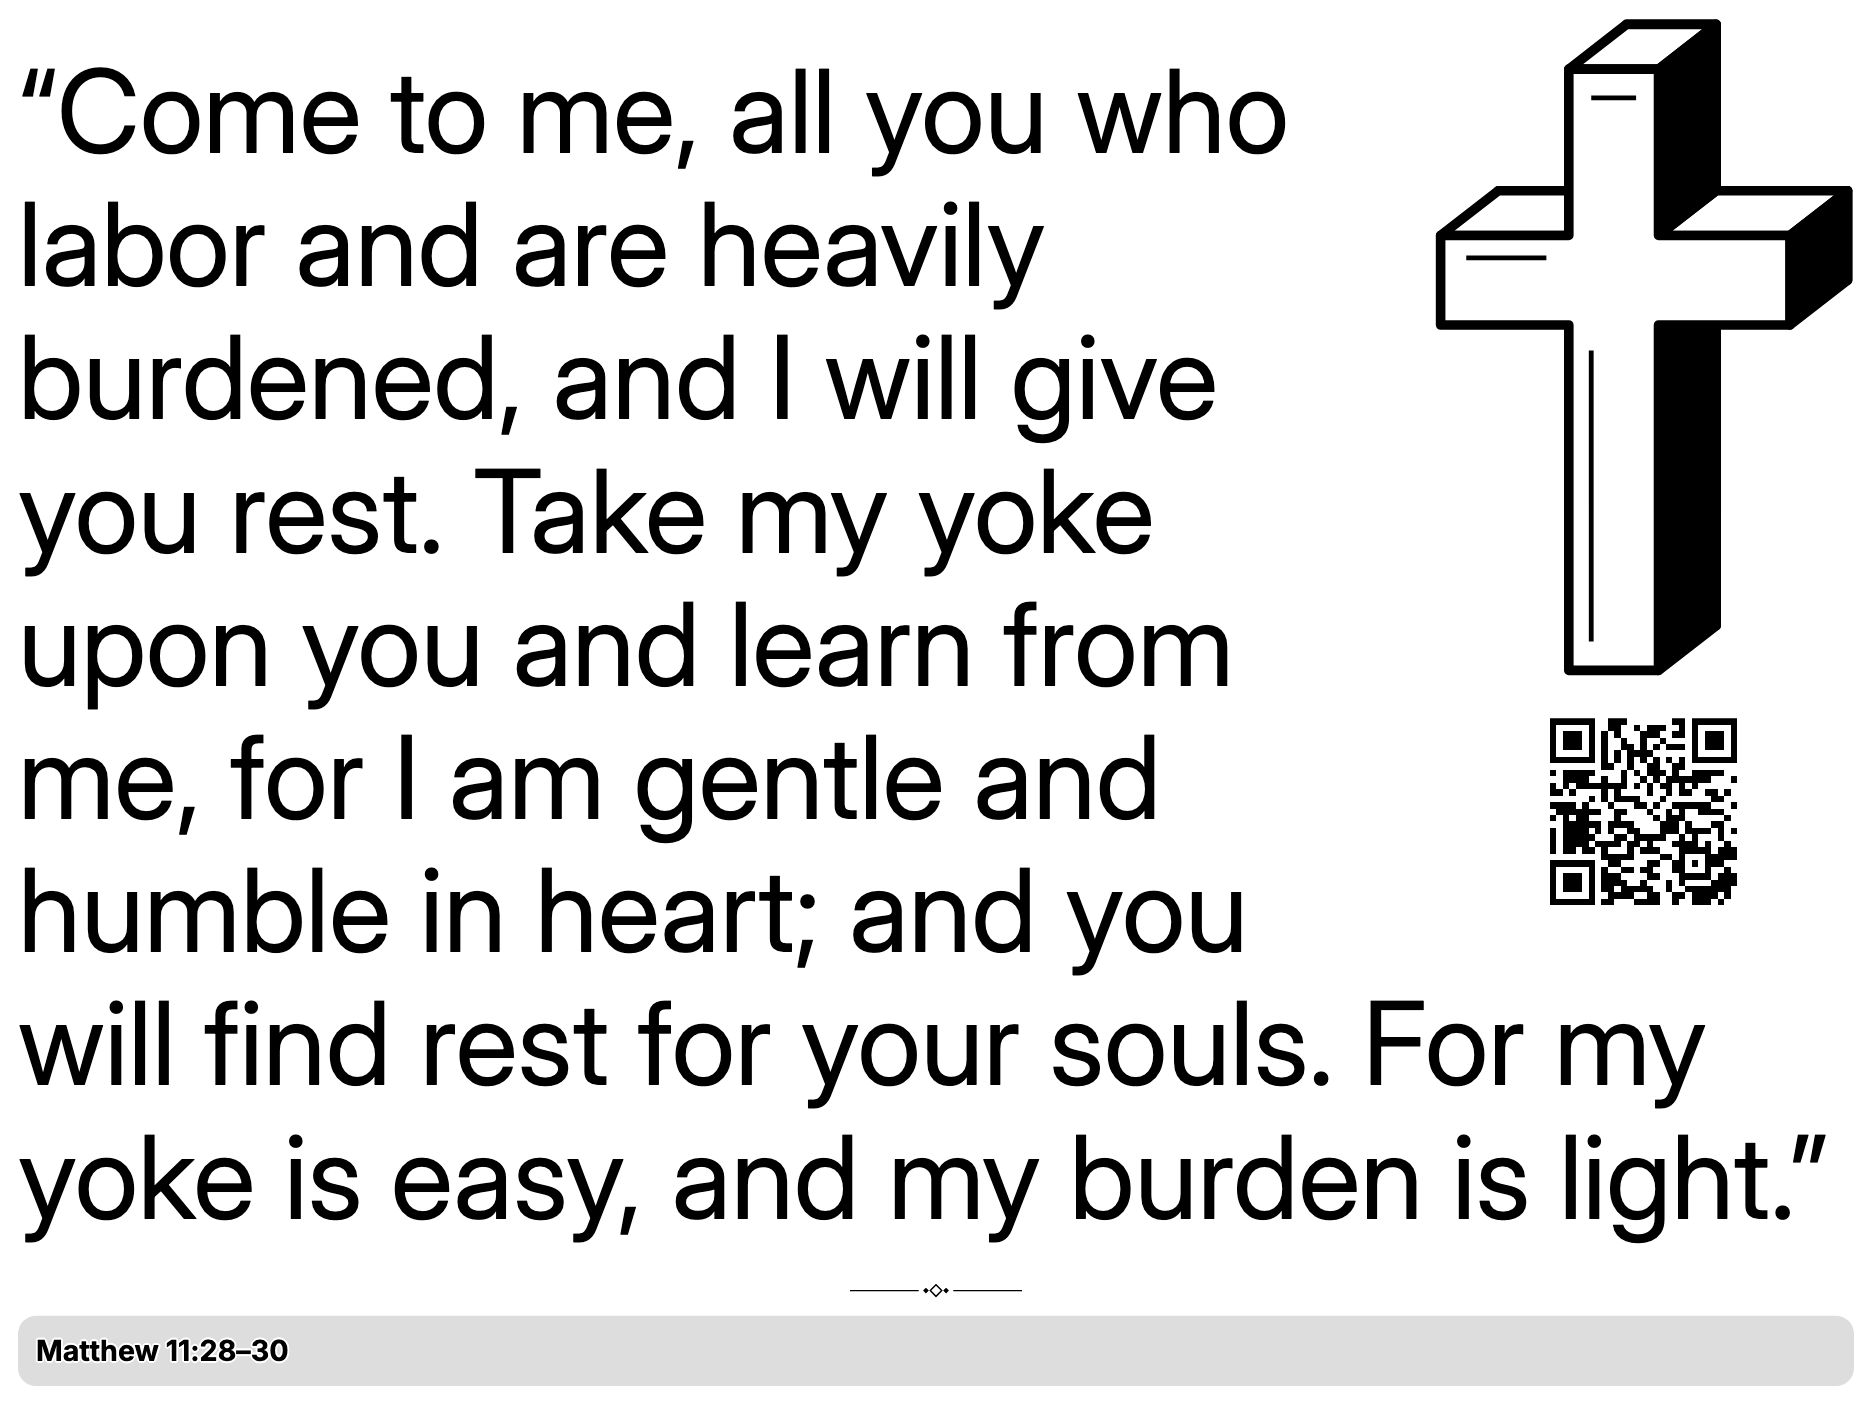
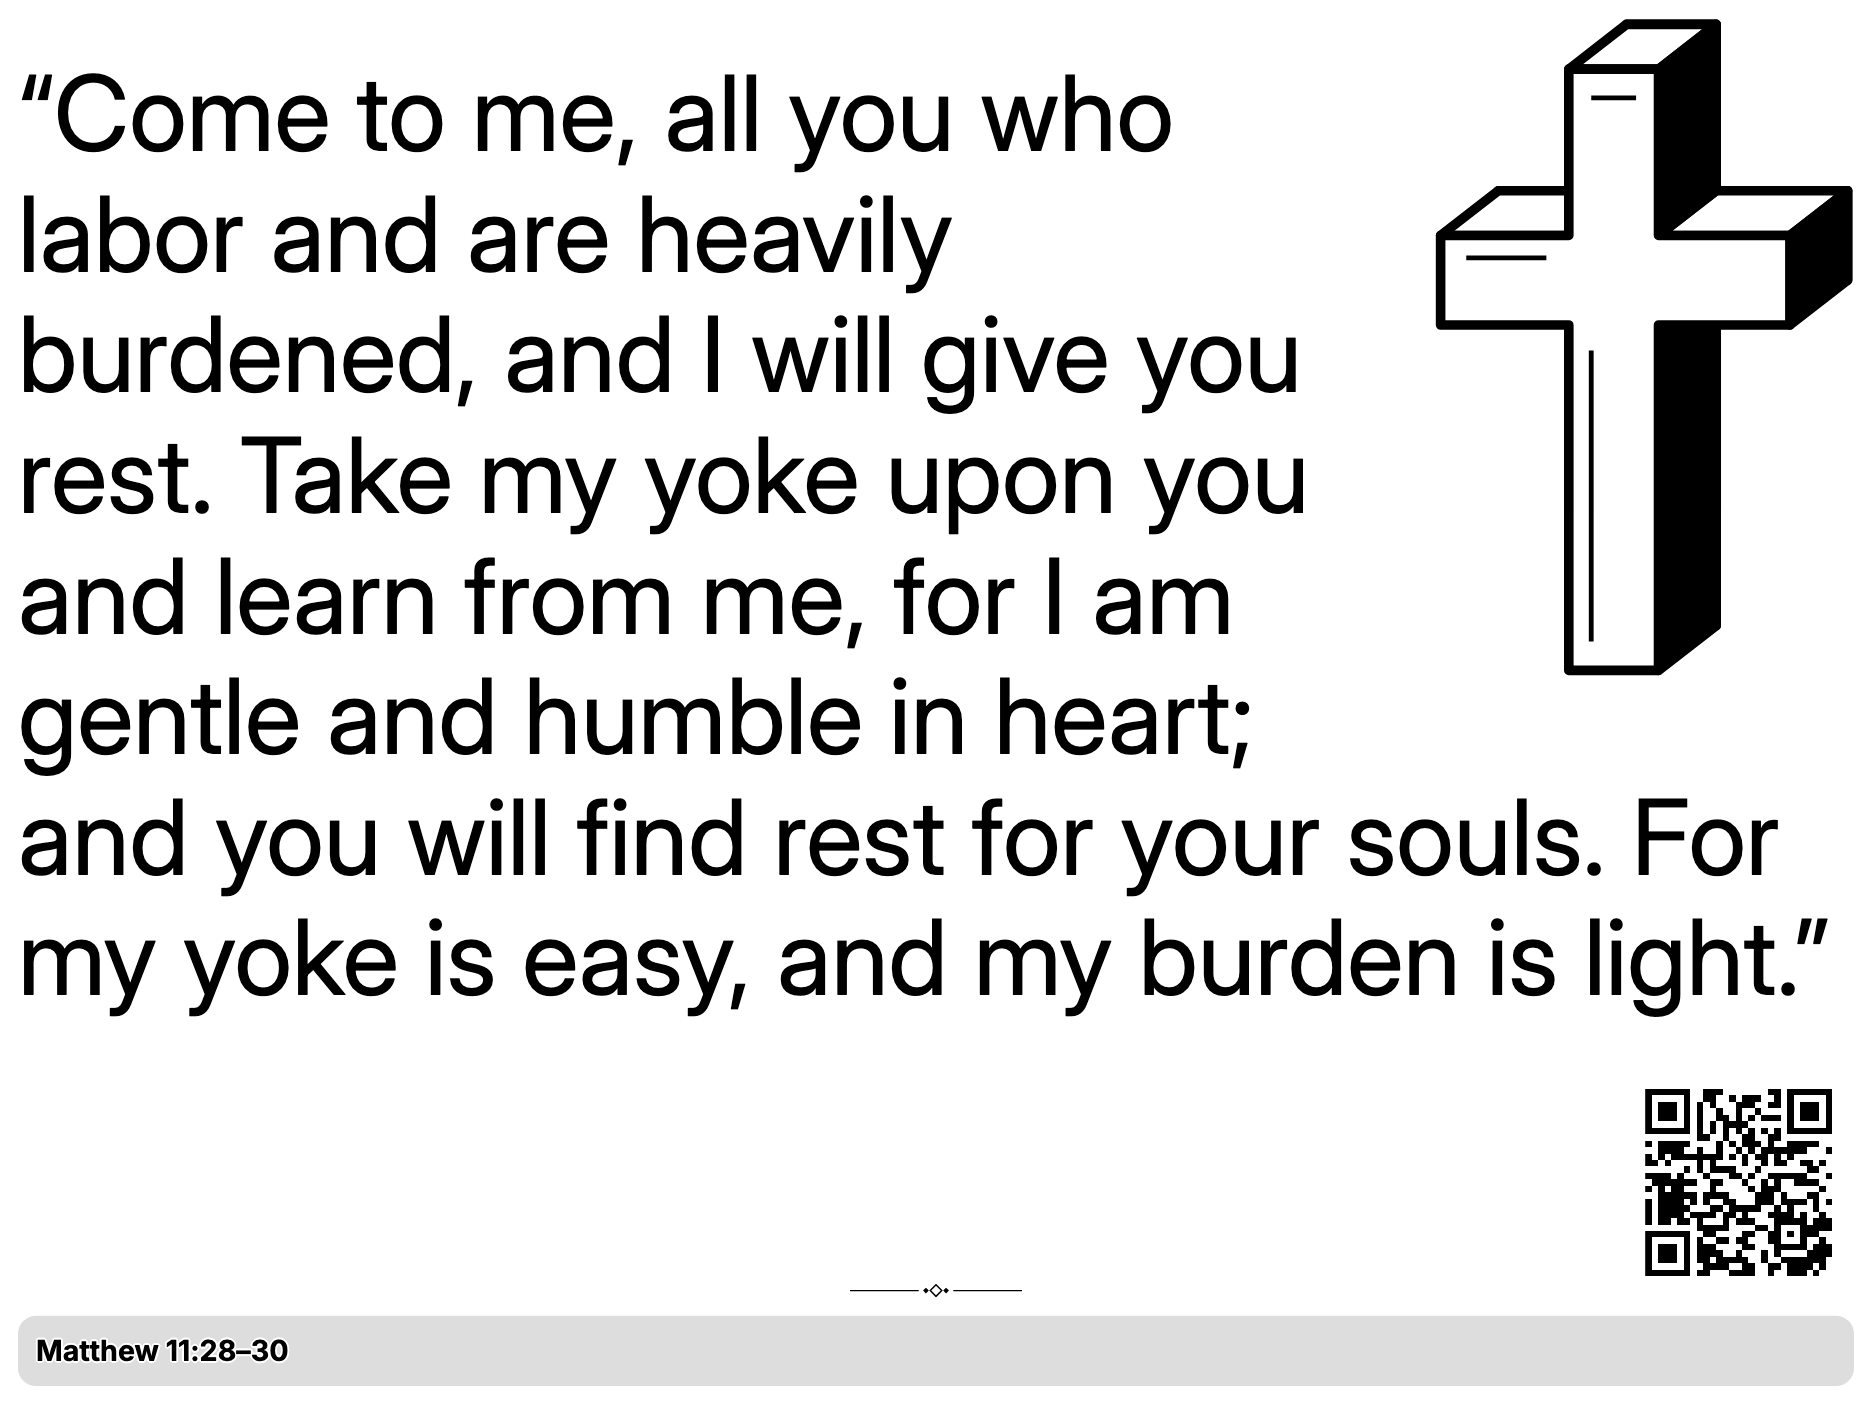
Simplify plugin settings and restore the corner QR in full view
The settings form uses plain labels: Language with one option per
language, single-word themes with no "All themes" entry (an empty
selection mixes every theme, and saved "all" values still work), "New
passage" with Daily, Twice a day, Every 6 hours and Hourly, and a
"Chapter QR code" toggle ahead of the About block. The local preview
matches.

The full view puts the QR code back in the bottom-right corner above
the reference bar, and the README and listing images are refreshed.

Changed region(s): [[0.0, 0.0306, 0.9915, 0.9188]]

diff --git a/packages/plugin-tools/src/preview.html b/packages/plugin-tools/src/preview.html
@@ -29,10 +29,10 @@
   <header><div><h1>Daily Bread</h1><p>Daily Bible verses. One passage to carry into your day.</p></div><a href="/review">Review all screens</a><a href="/download">Download TRMNL recipe</a></header>
   <main>
     <aside aria-label="Preview settings">
-      <div><label for="language">Language / Langue / Idioma</label><select id="language"></select></div>
-      <div><label id="theme-label">Themes</label><details class="theme-picker"><summary id="theme-summary" aria-labelledby="theme-label theme-summary">All themes</summary><fieldset id="theme"><legend>Choose one or more</legend></fieldset></details></div>
-      <div><label for="rotation">Change passage</label><select id="rotation"></select></div>
-      <div><label for="context-qr">Show chapter QR code</label><select id="context-qr"><option value="true">Show</option><option value="false">Hide</option></select></div>
+      <div><label for="language">Language</label><select id="language"></select></div>
+      <div><label id="theme-label">Themes</label><details class="theme-picker"><summary id="theme-summary" aria-labelledby="theme-label theme-summary">All themes</summary><fieldset id="theme"><legend>Leave empty for every theme</legend></fieldset></details></div>
+      <div><label for="rotation">New passage</label><select id="rotation"></select></div>
+      <div><label for="context-qr">Chapter QR code</label><select id="context-qr"><option value="true">Show</option><option value="false">Hide</option></select></div>
       <div><label for="model">Device</label><select id="model"></select></div>
       <div><label for="orientation">Orientation</label><select id="orientation"><option value="landscape">Landscape</option><option value="portrait">Portrait</option></select></div>
       <div><label for="view">Screen layout</label><select id="view"><option value="full">Full</option><option value="half_horizontal">Half horizontal</option><option value="half_vertical">Half vertical</option><option value="quadrant">Quadrant</option></select></div>
@@ -93,7 +93,7 @@
         byId('screen').style.width = width+'px'; byId('screen').style.height = height+'px';
         fitPreview();
         byId('screen').src = '/render?' + query + '&view=' + view;
-        const chosen = selectedThemes().filter(theme => theme !== 'all');
+        const chosen = selectedThemes();
         const collection = plugin.data.translations?.[byId('language').value] ?? plugin.data;
         const pool = chosen.length ? collection.verses.filter(v => chosen.includes(v.theme)) : collection.verses;
         const slot = Math.floor((Number(query.get('timestamp')) + Number(query.get('offset'))) / intervals[byId('rotation').value]);
@@ -106,10 +106,9 @@
         byId('translation').textContent = collection.translation.name + ' · ' + ({en:'English',fr:'Français',es:'Español'}[collection.translation.language] ?? collection.translation.language);
         const language = byId('language').value;
         const allLabel = {en:'All themes',fr:'Tous les thèmes',es:'Todos los temas'}[language] ?? 'All themes';
-        for (const input of byId('theme').querySelectorAll('input')) input.nextElementSibling.textContent = input.value === 'all' ? allLabel : collection.themes.find(t => t.id === input.value)?.name;
         byId('theme-summary').textContent = chosen.length === 0 || chosen.length === collection.themes.length ? allLabel : chosen.length === 1 ? collection.themes.find(t => t.id === chosen[0]).name : `${chosen.length} ${{en:'themes',fr:'thèmes',es:'temas'}[language] ?? 'themes'}`;
         byId('theme-label').textContent = {en:'Themes',fr:'Thèmes',es:'Temas'}[language] ?? 'Themes';
-        byId('theme').querySelector('legend').textContent = {en:'Choose one or more',fr:'Choisissez un ou plusieurs thèmes',es:'Elige uno o varios temas'}[language] ?? 'Choose one or more';
+        byId('theme').querySelector('legend').textContent = {en:'Leave empty for every theme',fr:'Laissez vide pour tous les thèmes',es:'Déjalo vacío para todos los temas'}[language] ?? 'Leave empty for every theme';
         for (const option of byId('rotation').options) if (collection.labels?.[option.value]) option.textContent = collection.labels[option.value]; else option.textContent = plugin.fields.find(f => f.keyname === 'rotation').options.find(entry => entry.endsWith(': '+option.value)).split(': ')[0];
         byId('summary').textContent = pool.length + ' curated passages in this rotation. Every passage appears once before the cycle repeats.';
         byId('links').replaceChildren(...Object.keys(fractions).map(v => { const a = document.createElement('a'); a.href='/render?'+query+'&view='+v; a.textContent=v.replaceAll('_',' '); a.target='_blank'; return a; }));
@@ -130,19 +129,11 @@
       for (const entry of themeField.options) {
         const [text, value] = entry.split(': ');
         const label = document.createElement('label');
-        const input = document.createElement('input'); input.type = 'checkbox'; input.value = value; input.checked = value === 'all';
+        const input = document.createElement('input'); input.type = 'checkbox'; input.value = value; input.checked = false;
         const span = document.createElement('span'); span.textContent = text;
         label.append(input, span); byId('theme').append(label);
       }
-      byId('theme').addEventListener('change', event => {
-        const inputs = Array.from(byId('theme').querySelectorAll('input'));
-        if (event.target.checked) {
-          if (event.target.value === 'all') inputs.forEach(input => { if (input.value !== 'all') input.checked = false; });
-          else inputs.find(input => input.value === 'all').checked = false;
-        }
-        if (!inputs.some(input => input.checked)) inputs.find(input => input.value === 'all').checked = true;
-        update();
-      });
+      byId('theme').addEventListener('change', update);
       byId('offset').value = plugin.offset / 3600;
       byId('time').value = new Date(Date.now() + plugin.offset * 1000).toISOString().slice(0,16);
       for (const name of ['language','rotation','context-qr','model','orientation','view','time','offset']) byId(name).addEventListener('change',update);

diff --git a/apps/bible-verses/test/languages.test.js b/apps/bible-verses/test/languages.test.js
@@ -104,7 +104,7 @@ test('a missing selected collection shows recovery text without silently display
 
 
 test('fresh and blank preferences use English, all themes, daily rotation and QR on in every layout', async () => {
-  assert.deepEqual(plugin.defaults, { language: 'en', theme: 'all', rotation: 'daily', show_context_qr: true });
+  assert.deepEqual(plugin.defaults, { language: 'en', rotation: 'daily', show_context_qr: true });
   const options = { timestamp: 1790848800, utcOffset: 0 };
   for (const view of views) {
     const initial = await renderView(plugin, view, options);

diff --git a/apps/bible-verses/README.md b/apps/bible-verses/README.md
@@ -11,10 +11,10 @@ Publication titles, descriptions, localized overview copy and search/share metad
 ## MVP
 
 - **108 passages**, with 12 in each of nine practical themes: Family & home, Relationships, Work & purpose, Money & generosity, Decisions & direction, Worry & rest, Hard times & loss, Joy & gratitude, and Faith & prayer.
-- **All themes** by default, interleaved so successive intervals move between themes. Users can choose one or several themes with [TRMNL’s native multi-select](https://help.trmnl.com/en/articles/10513740-custom-plugin-form-builder). Specific choices take priority over All themes; clearing the selection restores the mixed default.
+- **Every theme** by default, interleaved so successive intervals move between themes. Users can choose one or several themes with [TRMNL’s native multi-select](https://help.trmnl.com/en/articles/10513740-custom-plugin-form-builder); leaving it empty keeps the mix.
 - **One translation per language**: English (default) uses the updated, LORD edition of the [World English Bible](https://worldenglish.bible/) (`engwebp`); French uses [Louis Segond 1910](https://ebible.org/bible/details.php?id=fraLSG); Spanish uses [Reina Valera 1909](https://ebible.org/bible/details.php?id=spaRV1909). All three sources are public domain. Each language includes the same 108 curated selections, with localized references, themes and attribution.
 - **Daily** by default; every 12 hours, every 6 hours, or hourly are also available.
-- Full, half horizontal, half vertical, and quadrant layouts. Complete passage text and reference in every layout. The full view wraps Scripture around a larger dimensional cross at the top right. Wide half and quadrant views keep the cross at the top right; left/right halves center it above the verse, as do top/bottom halves in portrait. The cross remains visible with QR enabled or disabled. Text continues beneath the cross in wide halves and quadrants. Chapter QR codes sit above the full-width reference bar at the bottom right; centered-cross halves put the QR at the top right. Full views use a 128px QR footprint, centered halves use 80–96px, and wide halves/quadrants use 80px, all scaled by the framework. OG cross sizes are restrained, while TRMNL X uses larger artwork.
+- Full, half horizontal, half vertical, and quadrant layouts. Complete passage text and reference in every layout. The full view wraps Scripture around a larger dimensional cross at the top right. Wide half and quadrant views keep the cross at the top right; left/right halves center it above the verse, as do top/bottom halves in portrait. The cross remains visible with QR enabled or disabled. Text continues beneath the cross in wide halves and quadrants. In full views and portrait quadrants, the chapter QR code sits at the bottom right above the reference bar. Landscape wide halves and quadrants stack it under the cross so the text wraps around both; centered-cross halves put it at the top right. Full views use a 128px QR footprint, centered halves 80–96px, and wide halves and quadrants 64px with a smaller quiet zone, all scaled by the framework. OG cross sizes are restrained, while TRMNL X uses larger artwork.
 - No hosted backend, Bible API subscription, authentication, or API key.
 
 Passage text dynamically fits the measured reading area using [TRMNL Fit Value](https://trmnl.com/framework/docs/3.4/fit_value). The bottom bar shows only the reference, giving the complete passage more room; Scripture is never truncated. Two small, scoped CSS rules in shared.liquid enable the requested full, wide-half and quadrant cross wrap; other styling uses the framework.
@@ -24,7 +24,7 @@ Passage text dynamically fits the measured reading area using [TRMNL Fit Value](
 1. From the monorepo root, run `pnpm install` and `pnpm build`.
 2. Open **Plugins → Private Plugin** in TRMNL and choose **Import new**.
 3. Select `apps/bible-verses/dist/daily-bread.zip`.
-4. Choose **Language / Langue / Idioma**, **Themes**, **Change passage** and **Show chapter QR code** in the imported plugin's settings.
+4. Choose **Language**, **Themes**, **New passage** and **Chapter QR code** in the imported plugin's settings.
 5. Confirm your TRMNL account timezone, add the plugin to your preferred playlist or mashup, and refresh.
 
 To upload from the command line instead, run `pnpm upload` from the monorepo root after `bundle exec trmnlp login`. It creates a new private plugin. To update an existing one, set its ID: `TRMNL_PLUGIN_ID=<id> pnpm upload`. Keep that ID out of the repository.
@@ -79,7 +79,7 @@ Review the content diff, run the checks from the monorepo root, and rebuild the 
 
 ## Local development
 
-From the root: `pnpm dev`. The preview uses a collapsed checkbox picker for themes, with All themes selected initially. Its filtering matches the exported recipe; TRMNL renders its own native multi-select in account settings. The preview's UTC offset initially uses UTC+2; adjust it to simulate another user. This is a preview default, not a hardcoded timezone in the exported recipe. Use the Device and Orientation controls to review the original 1-bit display, 2-bit profile, and high-density TRMNL X in landscape or portrait. Previews fit the available width and height; choose Actual pixels for full-resolution inspection. Shared tools reload automatically; refresh the preview after template or content edits.
+From the root: `pnpm dev`. The preview uses a collapsed checkbox picker for themes, with none selected (every theme) initially. Its filtering matches the exported recipe; TRMNL renders its own native multi-select in account settings. The preview's UTC offset initially uses UTC+2; adjust it to simulate another user. This is a preview default, not a hardcoded timezone in the exported recipe. Use the Device and Orientation controls to review the original 1-bit display, 2-bit profile, and high-density TRMNL X in landscape or portrait. Previews fit the available width and height; choose Actual pixels for full-resolution inspection. Shared tools reload automatically; refresh the preview after template or content edits.
 
 `pnpm test` verifies rotation boundaries, timezone offsets, repeat-free cycles, multiple-theme filtering, blank and legacy preferences, consistent complete text across every view, missing-data recovery, content provenance, and ZIP import round trips. The [appearance browser review](docs/appearance-layout-checks.json) checks the final cross, wrapping, QR placement and full-width bar using the longest passage in every theme and the shortest passage in each language, across all four layouts, all three profiles, both orientations and both QR settings. The earlier [theme/content review](docs/theme-layout-checks.json) records the previous layout revision. Long passages were checked in all three languages with QR display enabled and disabled. Screenshots below show the longest English passage on the original display. These are local framework previews; installation and physical-device appearance still need a TRMNL account/device check.
 

diff --git a/apps/bible-verses/docs/curation.md b/apps/bible-verses/docs/curation.md
@@ -41,7 +41,7 @@ The [2 October collection and language review](content-review.md) verified all 3
 
 ## Theme preferences
 
-The exported TRMNL settings use the platform's native multi-select. “All themes” is the default; one or several specific selections restrict the cycle to those themes. Specific selections take priority if “All themes” is also selected. Empty or entirely unrecognized values restore the mixed default. Unknown values alongside valid choices are ignored, without adding unwanted themes. Selection order and duplicate choices do not change the cycle.
+The exported TRMNL settings use the platform's native multi-select, labelled with one word per theme. An empty selection is the default and mixes every theme; one or several selections restrict the cycle to those themes. Installations that saved the earlier “All themes” value (`all`) keep the mix, and specific selections still take priority over it. Empty or entirely unrecognized values restore the mixed default. Unknown values alongside valid choices are ignored, without adding unwanted themes. Selection order and duplicate choices do not change the cycle.
 
 The interleaved collection alternates among selected themes, with no repeated passage until the filtered cycle repeats. At the current collection size, one theme has a 12-slot cycle, two have 24, and all nine have 108. An hourly interval traverses the same collection faster; it does not increase the number of simultaneous passages.
 
